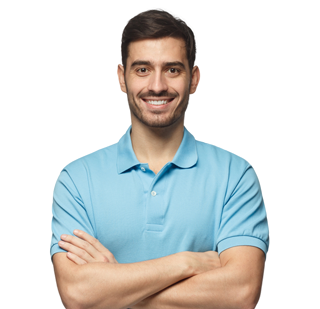
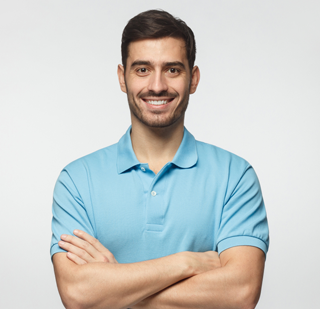
about

Changed region(s): [[0.0, 0.0, 1.0, 0.4078], [0.7812, 0.6408, 1.0, 1.0], [0.0, 0.7864, 0.2188, 1.0]]

diff --git a/src/Components/About/About.jsx b/src/Components/About/About.jsx
@@ -1,9 +1,40 @@
 import React from 'react';
 import './about.css'
+import { me2} from '../../Assets/index'
+import { FaAward, FiUsers, VscFolderLibrary } from "../Nav/index";
 
 const About = () => {
   return (
-    <section id="about">About</section>
+    <section id="about">
+      <h5>What you need to know</h5>
+      <h2>About Me</h2>
+      <div className="container about__container">
+        <div className="about__me">
+          <img src={me2} alt="About Image" className="about__me-img" />
+        </div>
+        <div className="about__content">
+          <div className="about__cards">
+            <article className="about__card">
+              <FaAward className='about__icon'/>
+              <h5>Experience</h5>
+              <small>2+ Years Working</small>
+            </article>
+            <article className="about__card">
+              <FiUsers className='about__icon'/>
+              <h5>Clients</h5>
+              <small>10+ Clients Worldwide</small>
+            </article>
+            <article className="about__card">
+              <VscFolderLibrary className='about__icon'/>
+              <h5>Projects</h5>
+              <small>20+ Completed Projects</small>
+            </article>
+          </div>
+          <p>Lorem ipsum, dolor sit amet consectetur adipisicing elit. Recusandae saepe hic repudiandae itaque tempore autem amet nobis dolorum dignissimos, deserunt suscipit, sunt inventore eaque, voluptatibus quam necessitatibus? Explicabo, laboriosam impedit?</p>
+       <a href="" className="btn btn-primary">Let's Talk</a>
+        </div>
+      </div>
+    </section>
   )
 }
 

diff --git a/src/Components/About/about.css b/src/Components/About/about.css
@@ -1,0 +1,31 @@
+.about__container{
+    display: grid;
+    grid-template-columns: 35% 50%;
+    gap: 15%;
+}
+
+.about__me{
+    width: 100%;
+    aspect-ratio: 1/1;
+    border-radius: 2rem;
+    background: linear-gradient(
+        45deg,
+        transparent,
+        var(--color-primary),
+        transparent
+    );
+    display: grid;
+    place-items: center;
+}
+
+.about__me-img{
+    border-radius: 2rem;
+    overflow: hidden;
+    transform: rotate(10deg);
+    transition: var(--transition);
+
+}
+
+.about__me-img:hover{
+transform: rotate(0);
+}

diff --git a/src/Components/Nav/index.js b/src/Components/Nav/index.js
@@ -3,9 +3,12 @@ import { AiOutlineUser } from 'react-icons/ai';
 import { BiBook } from 'react-icons/bi';
 import { RiServiceLine } from 'react-icons/ri';
 import { BiMessageSquareDetail } from 'react-icons/bi';
+import {FaAward} from 'react-icons/fa';
+import { FiUsers } from 'react-icons/fi';
+import { VscFolderLibrary } from 'react-icons/vsc'
 
 
 
 export {
-    AiOutlineHome,AiOutlineUser,BiBook, RiServiceLine,BiMessageSquareDetail
+    AiOutlineHome,AiOutlineUser,BiBook, RiServiceLine,BiMessageSquareDetail,FaAward, FiUsers,VscFolderLibrary
 }

diff --git a/src/Assets/index.js b/src/Assets/index.js
@@ -1,9 +1,10 @@
 import cv from './images/cv.pdf';
-import me from './images/wendy.png';
+import me from './images/wendy1.png';
+import me2 from './images/wendy.png'
 
 
 
 
 export {
-    cv, me
+    cv, me, me2
 }
